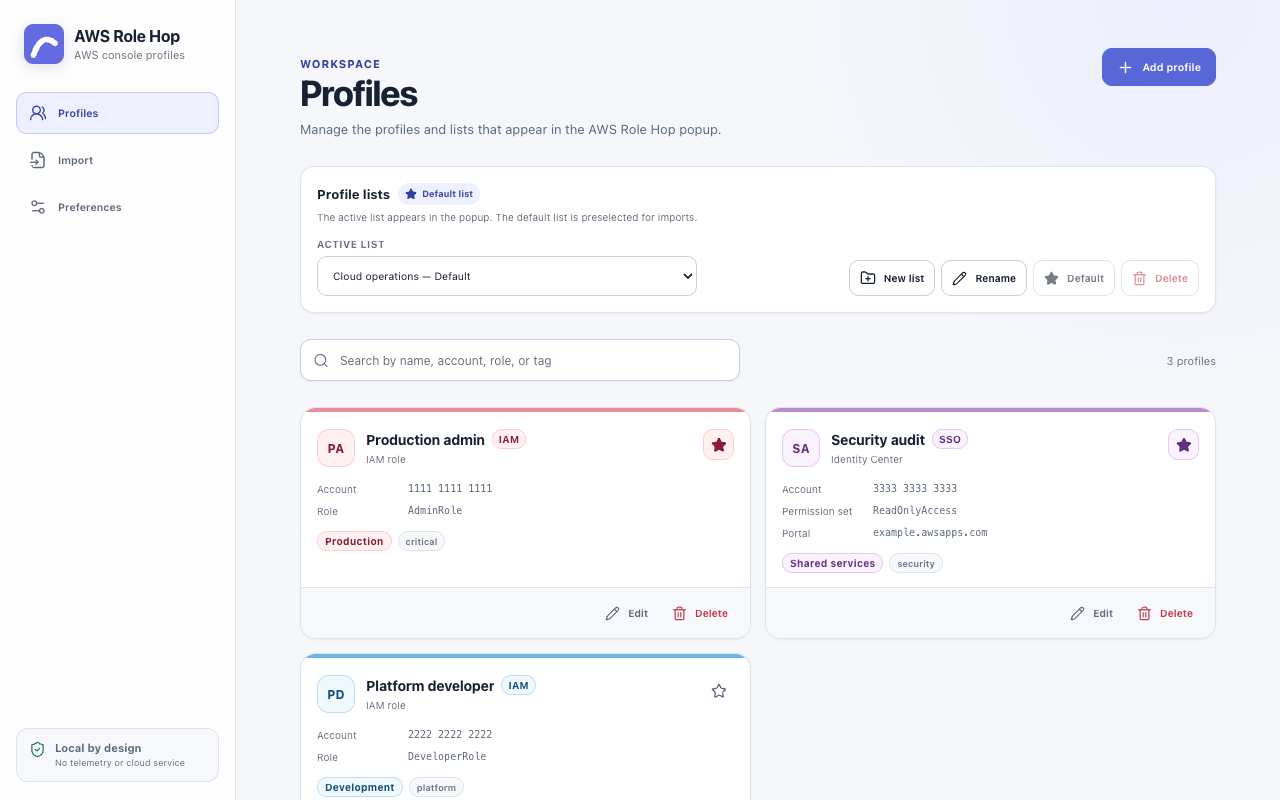
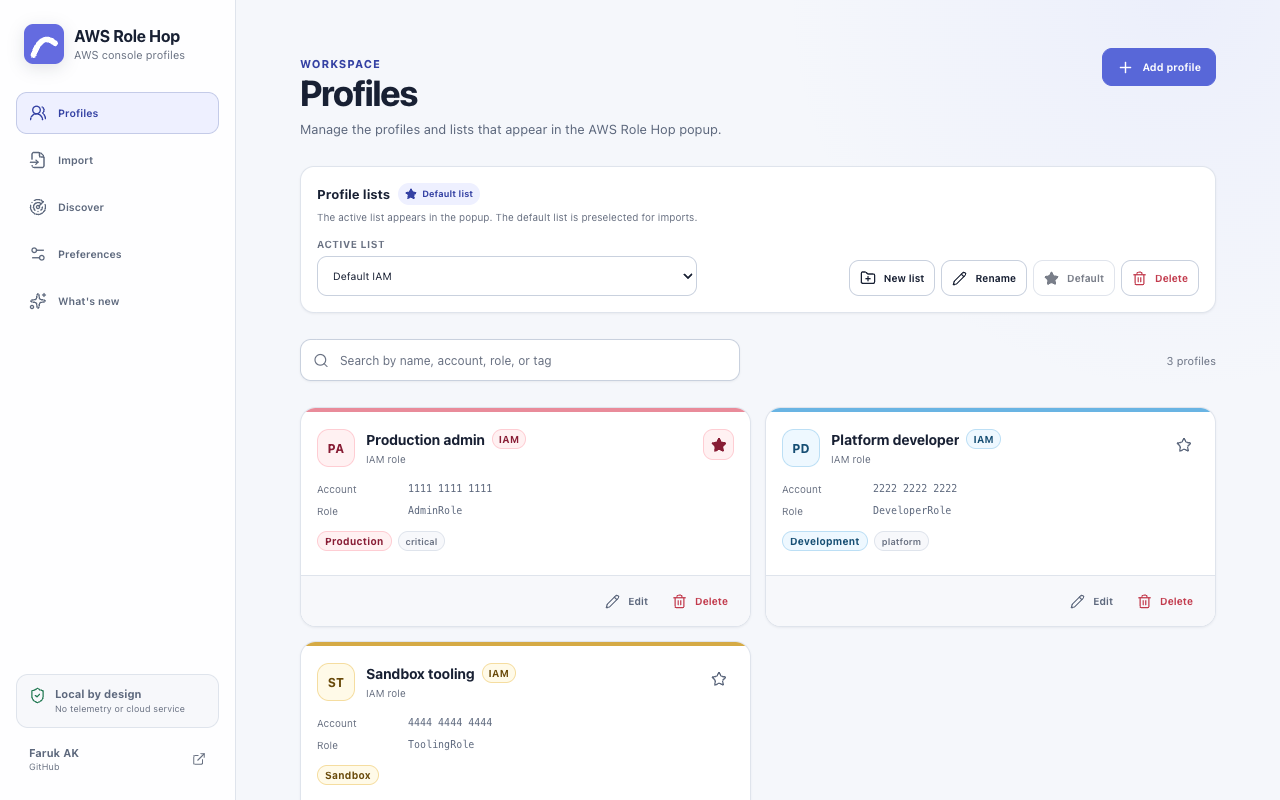
Release AWS Role Hop v0.2.0 (#14)
* chore: prepare AWS Role Hop v0.2.0

* docs: refresh screenshots and promotional art for 0.2.0

* chore: drop translations no screen uses

---------

diff --git a/src/i18n/index.tsx b/src/i18n/index.tsx
@@ -30,7 +30,6 @@ const TURKISH_MESSAGES = {
   'Stored locally': 'Yerel olarak saklanır',
   'Remove {name} from favorites': '{name} profilini favorilerden çıkar',
   'Favorite {name}': '{name} profilini favorile',
-  'Open production?': 'Production profili açılsın mı?',
   'You are about to open {name} with the {role} role.':
     '{name} profilini {role} rolüyle açmak üzeresin.',
   Cancel: 'İptal',
@@ -66,6 +65,16 @@ const TURKISH_MESSAGES = {
   'This list also has IAM profiles.': 'Bu listede IAM profilleri de var.',
   'Switch to SSO': 'SSO’ya geç',
   'Switch to IAM': 'IAM’e geç',
+  'Choose between IAM and SSO when you first open AWS Role Hop, and switch access path whenever you want.':
+    'AWS Role Hop’u ilk açtığında IAM ile SSO arasında seç, erişim yolunu istediğin zaman değiştir.',
+  'Let AWS Role Hop read your accounts and permission sets from your AWS access portal instead of typing them.':
+    'Hesaplarını ve izin setlerini elle yazmak yerine AWS Role Hop’un AWS erişim portalından okumasına izin ver.',
+  'Scan the portal straight from the popup while you are on it.':
+    'Portaldayken taramayı doğrudan açılır pencereden yap.',
+  'Keep IAM and SSO profiles apart in their own default lists.':
+    'IAM ve SSO profillerini kendi varsayılan listelerinde ayrı tut.',
+  'Open any profile in a single click, with the production confirmation available when you want it.':
+    'Her profili tek tıkla aç; üretim onayı istediğinde açılabilir durumda kalsın.',
   'Default IAM': 'Varsayılan IAM',
   'Default SSO': 'Varsayılan SSO',
   'Pick an account to open it, or scan the portal again to refresh this list.':
@@ -107,7 +116,6 @@ const TURKISH_MESSAGES = {
     'AWS Role Hop’un hangi AWS erişim yolu için kurulduğunu seç.',
   'IAM roles': 'IAM rolleri',
   'Switch inside the AWS Console': 'AWS Console içinde geçiş yap',
-  'IAM Identity Center': 'IAM Identity Center',
   'Needs access to your AWS access portal': 'AWS erişim portalına erişim gerektirir',
   Appearance: 'Görünüm',
   'Use your browser preference or choose a fixed theme.':
@@ -135,8 +143,6 @@ const TURKISH_MESSAGES = {
   'New tab': 'Yeni sekme',
   'Keep your current page open': 'Geçerli sayfayı açık tut',
   'Confirm production profiles': 'Production profillerini onayla',
-  'Require one extra confirmation before opening a production role.':
-    'Production rolünü açmadan önce ek onay iste.',
   'Hide account IDs': 'Hesap kimliklerini gizle',
   'Show only the final four characters in AWS Role Hop interfaces.':
     'AWS Role Hop arayüzlerinde yalnızca son dört karakteri göster.',
@@ -177,8 +183,6 @@ const TURKISH_MESSAGES = {
   Rename: 'Yeniden adlandır',
   'Make default': 'Varsayılan yap',
   'Create profile list': 'Profil listesi oluştur',
-  'Rename {name}': '{name} listesini yeniden adlandır',
-  'Make {name} the default list': '{name} listesini varsayılan yap',
   'Delete {name} list': '{name} listesini sil',
   'Could not select the profile list.': 'Profil listesi seçilemedi.',
   '{name} is now the default list.': '{name} artık varsayılan liste.',
@@ -196,8 +200,6 @@ const TURKISH_MESSAGES = {
   'List name': 'Liste adı',
   'Create list': 'Liste oluştur',
   'Delete list': 'Listeyi sil',
-  'Keep every AWS account and role one search away.':
-    'Tüm AWS hesaplarını ve rollerini tek arama uzağında tut.',
   'Manage the profiles and lists that appear in the AWS Role Hop popup.':
     'AWS Role Hop popup’ında görünen profilleri ve listeleri yönet.',
   'This list has no profiles yet': 'Bu listede henüz profil yok',
@@ -212,8 +214,6 @@ const TURKISH_MESSAGES = {
   'Search by name, account, role, or tag': 'Ada, hesaba, role veya etikete göre ara',
   '{matches} of {total} match': '{total} profilden {matches} tanesi eşleşiyor',
   'No profiles yet': 'Henüz profil yok',
-  'Add profiles individually or import an existing AWS config. Credentials are never needed.':
-    'Profilleri tek tek ekle veya mevcut AWS yapılandırmasını içe aktar. Kimlik bilgileri gerekmez.',
   'Create profile': 'Profil oluştur',
   'Try a different name, account ID, role, environment, or tag.':
     'Farklı bir ad, hesap kimliği, rol, ortam veya etiket dene.',
@@ -278,7 +278,6 @@ const TURKISH_MESSAGES = {
   'AWS could not complete the switch. Try again in a moment.':
     'AWS geçişi tamamlayamadı. Biraz sonra tekrar dene.',
   'AWS rejected the switch request.': 'AWS geçiş isteğini reddetti.',
-  'Bring your profiles': 'Profillerini getir',
   'Import AWS config': 'AWS yapılandırmasını içe aktar',
   'Add many profiles': 'Birden fazla profil ekle',
   'Paste profile metadata, choose a destination, and import when it is ready.':
@@ -286,17 +285,11 @@ const TURKISH_MESSAGES = {
   'Paste or drop a file': 'Yapıştır veya dosya bırak',
   'Supports AWS CLI profiles, Identity Center sessions, and Organizations JSON.':
     'AWS CLI profillerini, Identity Center oturumlarını ve Organizations JSON çıktısını destekler.',
-  'Review every profile before it reaches local storage.':
-    'Yerel depolamaya ulaşmadan önce her profili incele.',
   'Choose file': 'Dosya seç',
-  Configuration: 'Yapılandırma',
-  'AWS CLI profiles, Identity Center sessions, and Organizations list-accounts output are supported.':
-    'AWS CLI profilleri, Identity Center oturumları ve Organizations list-accounts çıktısı desteklenir.',
   'Clear configuration': 'Yapılandırmayı temizle',
   'AWS configuration': 'AWS yapılandırması',
   'Import into': 'Şuraya içe aktar',
   'Import into profile list': 'İçe aktarılacak profil listesi',
-  'Drop a .config, .ini, or .json file here': 'Bir .config, .ini veya .json dosyasını buraya bırak',
   'Profile list destination': 'Profil listesi hedefi',
   'Existing list': 'Mevcut liste',
   'New profile list name': 'Yeni profil listesi adı',
@@ -305,8 +298,6 @@ const TURKISH_MESSAGES = {
   'Format not recognized': 'Biçim tanınmadı',
   'Import details': 'İçe aktarma ayrıntıları',
   'Enter a name for the new profile list.': 'Yeni profil listesi için bir ad gir.',
-  'Drop a supported file anywhere in this editor':
-    'Desteklenen bir dosyayı bu editörün herhangi bir yerine bırak',
   'Paste AWS config or Organizations JSON here…':
     'AWS yapılandırmasını veya Organizations JSON çıktısını buraya yapıştır…',
   'Show an import example': 'İçe aktarma örneğini göster',
@@ -341,13 +332,11 @@ const TURKISH_MESSAGES = {
     'Yukarıdaki sorunları düzelt veya rol ya da Identity Center alanları içeren bölümler sağla.',
   '1 section not included': '1 bölüm dahil edilmedi',
   '{count} sections not included': '{count} bölüm dahil edilmedi',
-  'Paste or choose an AWS config first.': 'Önce bir AWS yapılandırması yapıştır veya seç.',
   'Config files must be smaller than 1 MB.': 'Yapılandırma dosyaları 1 MB’den küçük olmalıdır.',
   'Pasted configuration must be smaller than 1 MB.':
     'Yapıştırılan yapılandırma 1 MB’den küçük olmalıdır.',
   'The selected file could not be read.': 'Seçilen dosya okunamadı.',
   'Could not import profiles.': 'Profiller içe aktarılamadı.',
-  'Could not open the imported profile list.': 'İçe aktarılan profil listesi açılamadı.',
   'Could not open the selected profile list.': 'Seçili profil listesi açılamadı.',
   'Manage selected list': 'Seçili listeyi yönet',
   'Load list into editor': 'Listeyi editöre yükle',

diff --git a/src/entrypoints/popup/popup.css b/src/entrypoints/popup/popup.css
@@ -486,6 +486,7 @@ body {
 
 .popup-mode-switch {
   display: grid;
+  margin: 0 16px 10px;
   grid-template-columns: 1fr 1fr;
   gap: 4px;
   padding: 4px;
@@ -524,6 +525,7 @@ body {
 
 .popup-mode-hint {
   display: flex;
+  margin: 0 16px 10px;
   gap: 8px;
   align-items: center;
   justify-content: space-between;
@@ -554,6 +556,7 @@ body {
 
 .portal-scan {
   display: grid;
+  margin: 0 16px 10px;
   gap: 10px;
   padding: 12px;
   background: var(--color-surface);
@@ -620,6 +623,7 @@ body {
 }
 
 .popup-notice {
+  margin: 0 16px 10px;
   padding: 8px 11px;
   font-size: 0.78rem;
   color: var(--color-success);
@@ -628,7 +632,7 @@ body {
 }
 
 .popup-guidance {
-  margin: 0;
+  margin: 0 16px 10px;
   font-size: 0.75rem;
   line-height: 1.4;
   color: var(--color-text-tertiary);

diff --git a/src/domain/release-notes.ts b/src/domain/release-notes.ts
@@ -8,6 +8,17 @@ export interface ReleaseNote {
 
 export const RELEASE_NOTES: readonly ReleaseNote[] = [
   {
+    version: '0.2.0',
+    date: '2026-08-13',
+    highlights: [
+      'Choose between IAM and SSO when you first open AWS Role Hop, and switch access path whenever you want.',
+      'Let AWS Role Hop read your accounts and permission sets from your AWS access portal instead of typing them.',
+      'Scan the portal straight from the popup while you are on it.',
+      'Keep IAM and SSO profiles apart in their own default lists.',
+      'Open any profile in a single click, with the production confirmation available when you want it.',
+    ],
+  },
+  {
     version: '0.1.3',
     date: '2026-08-13',
     highlights: [

diff --git a/README.md b/README.md
@@ -2,7 +2,7 @@
 
 AWS Role Hop is a fast, private profile launcher for the AWS Management Console. It keeps IAM roles and IAM Identity Center permission sets searchable without storing credentials or reading AWS Console pages.
 
-> AWS Role Hop is under active development and has not been published to browser stores yet.
+> **[Install from the Chrome Web Store](https://chromewebstore.google.com/detail/aws-role-hop/oemhdcinifpcgdbffhojpbjflpgbbhcb)** — also works in Brave and other Chromium browsers. Edge, Firefox, and Safari builds are produced from the same source; see [Browser support](#browser-support).
 
 [![CI](https://github.com/farukak/aws-role-hop/actions/workflows/ci.yml/badge.svg)](https://github.com/farukak/aws-role-hop/actions/workflows/ci.yml)
 [![License: Apache-2.0](https://img.shields.io/badge/License-Apache_2.0-blue.svg)](LICENSE)
@@ -17,6 +17,7 @@ AWS Role Hop is a fast, private profile launcher for the AWS Management Console.
 - IAM role profiles for the standard AWS, AWS GovCloud (US), and AWS China partitions
 - AWS IAM Identity Center shortcuts with optional landing regions
 - Discovery of Identity Center accounts and permission sets from your AWS access portal, behind a permission the browser only asks for when you use it
+- Separate default lists per access path, so IAM and SSO profiles never mix
 - Unlimited named profile lists with explicit active and default-list behavior
 - Automatic or manually selected low-saturation pastel colors, with distinct production and staging treatments
 - Favorites, recent profiles, tags, account masking, and keyboard-first search
@@ -28,9 +29,13 @@ AWS Role Hop is a fast, private profile launcher for the AWS Management Console.
 
 ## Screenshots
 
-| Profiles                                                                                    | Import                                                                                    |
-| ------------------------------------------------------------------------------------------- | ----------------------------------------------------------------------------------------- |
-| [![Searchable AWS profile lists](docs/assets/01-profiles.png)](docs/assets/01-profiles.png) | [![Credential-safe profile import](docs/assets/02-import.png)](docs/assets/02-import.png) |
+| Popup                                                                                    | Profiles                                                                                    |
+| ---------------------------------------------------------------------------------------- | ------------------------------------------------------------------------------------------- |
+| [![Keyboard-first profile launcher](docs/assets/06-popup.png)](docs/assets/06-popup.png) | [![Searchable AWS profile lists](docs/assets/01-profiles.png)](docs/assets/01-profiles.png) |
+
+| Import                                                                                    | Discover                                                                                                        |
+| ----------------------------------------------------------------------------------------- | --------------------------------------------------------------------------------------------------------------- |
+| [![Credential-safe profile import](docs/assets/02-import.png)](docs/assets/02-import.png) | [![Identity Center discovery from the access portal](docs/assets/05-discover.png)](docs/assets/05-discover.png) |
 
 | Preferences                                                                                                   | What's new                                                                                   |
 | ------------------------------------------------------------------------------------------------------------- | -------------------------------------------------------------------------------------------- |
@@ -46,6 +51,7 @@ AWS Role Hop requests `storage`, `activeTab`, and narrowly scoped access to supp
 - AWS access keys, secret keys, session tokens, credential processes, and token files are excluded from imports.
 - There is no analytics, telemetry, account system, backend, or remotely hosted code.
 - Identity Center navigation uses [AWS IAM Identity Center shortcut links](https://docs.aws.amazon.com/singlesignon/latest/userguide/createshortcutlink.html).
+- Reading accounts and permission sets from an AWS access portal requires an **optional** permission the browser asks for only when you start discovery. The lookup runs in a portal tab using the session already there; no cookie or token is read or stored, and the permission can be withdrawn at any time.
 - IAM role launches start from the authenticated AWS Console tab. A content script limited to supported Console origins passes the selected account, role, display name, landing region, and AWS Role Hop color to a bundled page-context bridge. The bridge reads AWS's own sign-in endpoint, multi-session metadata, and ephemeral CSRF value, then submits AWS's native switch-role POST directly. No intermediate Switch Role page is opened. AWS controls authentication, authorization, role-history persistence, and the final redirect.
 - AWS Role Hop does not read browser cookies or credentials. The CSRF value and Console metadata are used only in memory for the requested switch and are not stored, logged, or sent anywhere except AWS's validated sign-in endpoint.
 - Production profiles require a separate AWS Role Hop confirmation by default.
@@ -70,15 +76,19 @@ AWS Role Hop supports current stable browser releases. Store signing, listing as
 
 Safari uses the same WebExtension source, followed by [Apple's Safari extension packaging flow](https://developer.apple.com/safari/extensions/). Browser-specific manifests are generated by [WXT](https://wxt.dev/guide/essentials/target-different-browsers).
 
+### Install from a browser store
+
+Chrome and Brave: **[AWS Role Hop on the Chrome Web Store](https://chromewebstore.google.com/detail/aws-role-hop/oemhdcinifpcgdbffhojpbjflpgbbhcb)**. The store build updates itself.
+
 ### Install an unpacked development build
 
-No signed store build is available yet. To evaluate AWS Role Hop locally:
+To evaluate an unreleased change locally:
 
 1. Install Node.js 24 and run `npm ci`.
 2. Run `npm run build:chrome`.
 3. Open `chrome://extensions`, enable **Developer mode**, select **Load unpacked**, and choose `.output/chrome-mv3`.
 
-Unpacked builds are unsigned and do not auto-update. Firefox can load `.output/firefox-mv3/manifest.json` temporarily from `about:debugging`; Safari requires Apple's conversion, signing, and packaging flow. Use signed browser-store builds when they become available.
+Unpacked builds are unsigned and do not auto-update. Firefox can load `.output/firefox-mv3/manifest.json` temporarily from `about:debugging`; Safari requires Apple's conversion, signing, and packaging flow. Prefer the signed store build for everyday use.
 
 ## Releases and updates
 

diff --git a/CHANGELOG.md b/CHANGELOG.md
@@ -6,6 +6,29 @@ to [Semantic Versioning](https://semver.org/spec/v2.0.0.html).
 
 ## [Unreleased]
 
+## [0.2.0] - 2026-08-13
+
+### Added
+
+- A first-run question asking whether you reach AWS through IAM roles or SSO, with a separate mark for each path and an upfront note that SSO needs access to your AWS access portal. The choice is changeable in Preferences and from a switcher in the popup.
+- Discovery of Identity Center accounts and permission sets from an AWS access portal, so they no longer have to be typed by hand. The lookup runs inside a portal tab, which makes it same-origin and lets the browser attach the session that is already there; no cookie or token is read or stored.
+- Access to an AWS access portal origin as an **optional** permission. The browser asks for it only when discovery starts, so the default permission surface is unchanged and it can be withdrawn at any time.
+- Scanning the portal from the popup while a portal tab is open, including choosing which discovered roles to keep.
+- Separate built-in lists for the two access paths, **Default IAM** and **Default SSO**. Switching access path also switches the list on screen.
+- A short line in the popup describing what to do in the active access path.
+
+### Changed
+
+- Opening a profile takes a single click. The production confirmation is off by default and stays available in Preferences.
+- The popup lists only the profiles of the active access path, and says when the same list also holds profiles for the other one instead of hiding them silently.
+- Storage moved to version 5. Existing installs keep everything: the shared list is renamed **Default IAM**, Identity Center profiles in it move to **Default SSO**, and the access path is derived from the profiles already stored so nobody is sent back through the first-run question.
+
+### Fixed
+
+- Identity Center profiles could not be created on the current AWS access portal format, which is served from the host root rather than from `/start`.
+- The storage migration chain returned early for a stored version 3, so a later migration step would never have run.
+- A failed portal lookup reported one generic message. Failures now carry the endpoint and the reason, and a request that is refused inside the portal tab is reported instead of being swallowed.
+
 ## [0.1.3] - 2026-08-13
 
 ### Added
@@ -102,7 +125,8 @@ to [Semantic Versioning](https://semver.org/spec/v2.0.0.html).
 - All four modal dialogs expose an accessible name and description, the popup has a top-level heading, and both the popup and the options list announce how many profiles match the current search.
 - Removed a keyboard shortcut hint in the popup search field that no handler implemented and that showed a macOS-only key on every platform.
 
-[Unreleased]: https://github.com/farukak/aws-role-hop/compare/v0.1.3...HEAD
+[Unreleased]: https://github.com/farukak/aws-role-hop/compare/v0.2.0...HEAD
+[0.2.0]: https://github.com/farukak/aws-role-hop/compare/v0.1.3...v0.2.0
 [0.1.3]: https://github.com/farukak/aws-role-hop/compare/v0.1.2...v0.1.3
 [0.1.2]: https://github.com/farukak/aws-role-hop/compare/v0.1.1...v0.1.2
 [0.1.1]: https://github.com/farukak/aws-role-hop/compare/v0.1.0...v0.1.1

diff --git a/STORE_LISTING.md b/STORE_LISTING.md
@@ -165,7 +165,7 @@ IAM switching test with a reviewer-owned AWS test account:
 Required before submission:
 
 - 128×128 store icon: generated as `icons/128.png` in the package.
-- Four current 1280×800 screenshots using only fictional account data are tracked in `docs/assets/`.
+- Five current 1280×800 screenshots using only fictional account data are tracked in `docs/assets/`: `01-profiles.png`, `02-import.png`, `03-preferences.png`, `04-whats-new.png`, and `05-discover.png`. `06-popup.png` shows the popup itself and is used in the README.
 - Small promotional tile: `docs/assets/store-promo-440x280.png` (440×280).
 - Marquee image: `docs/assets/store-marquee-1400x560.png` (1400×560).
 - GitHub social preview: `docs/assets/social-preview.png` (1280×640).
